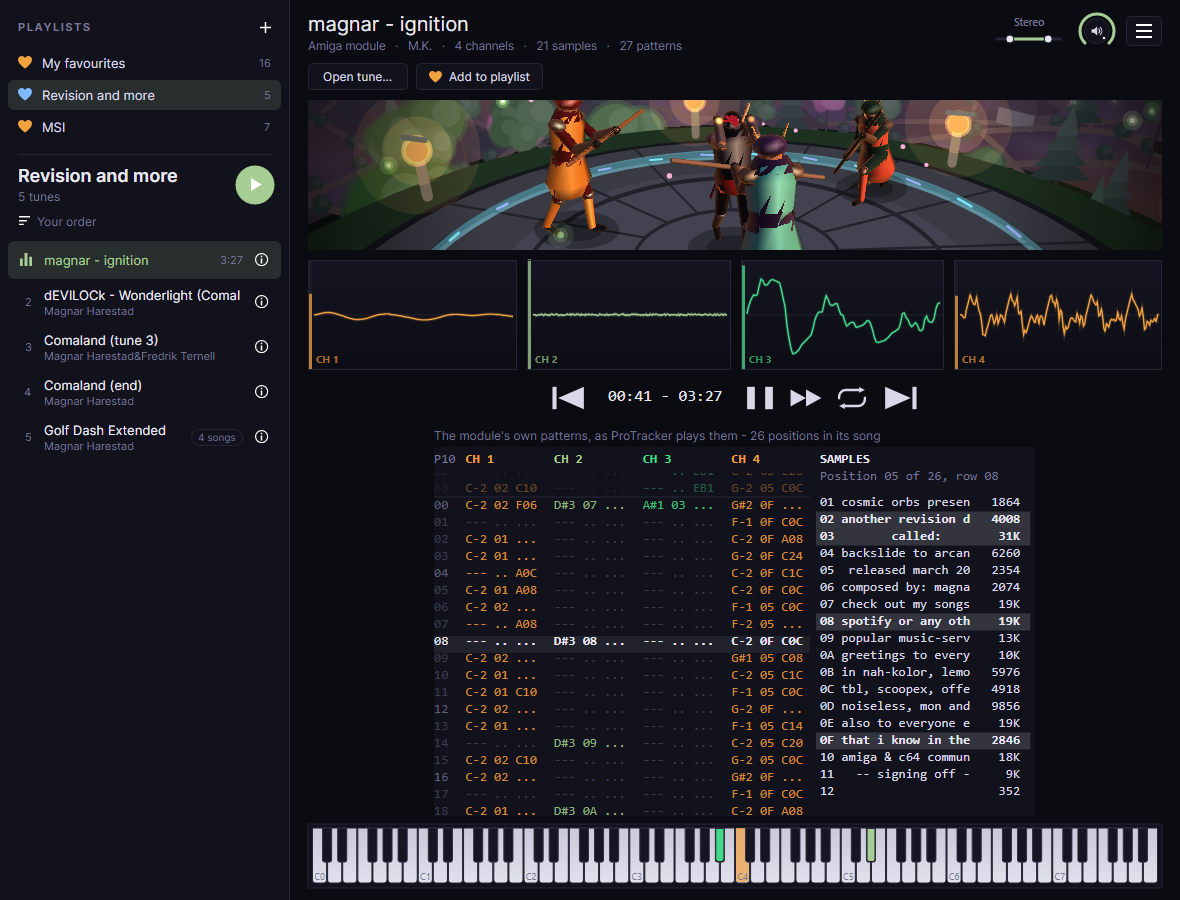
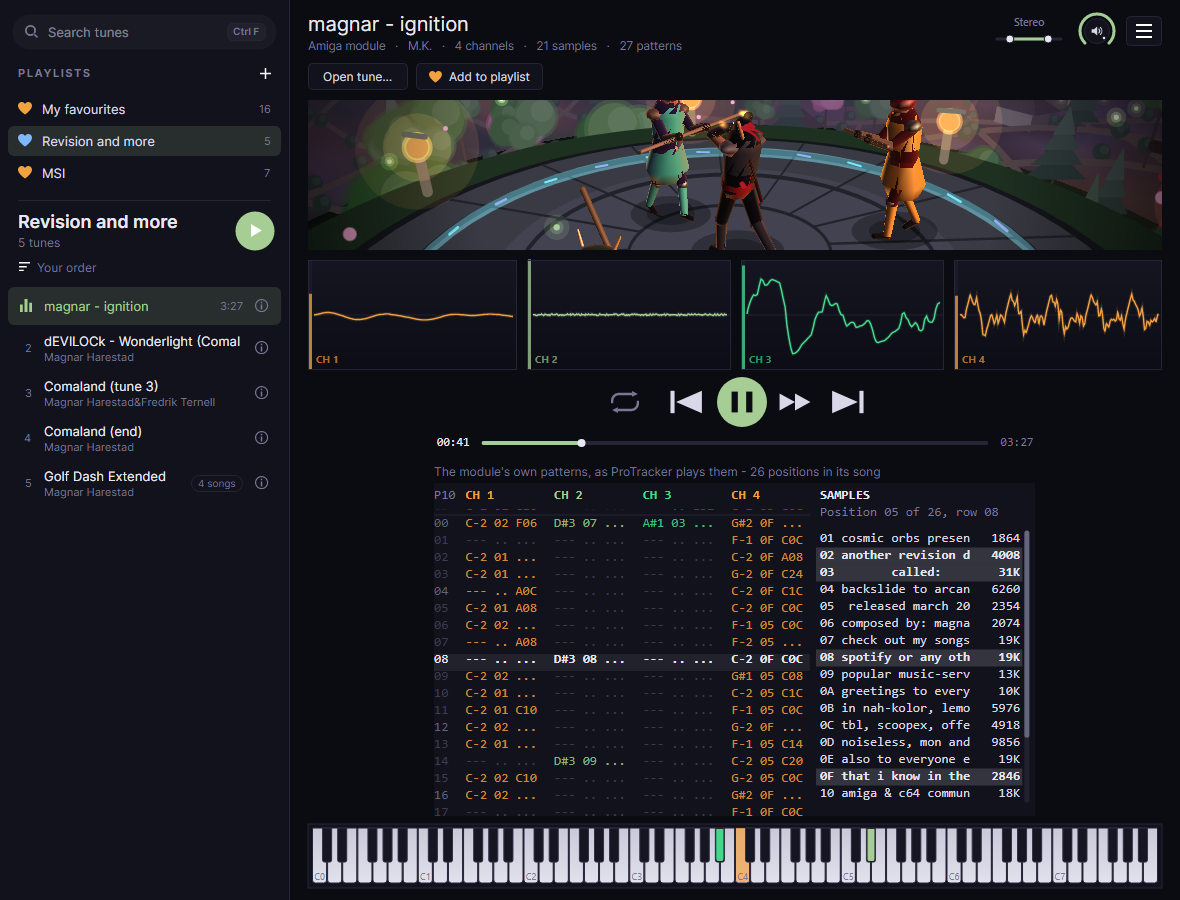
Website: the screenshots from 1.51
The four main screenshots rendered again from the app as it is now:
the search box above the playlists, the controls together and the time
bar under them. The captions say so.

diff --git a/docs/index.html b/docs/index.html
@@ -34,8 +34,8 @@
   </section>
 
   <figure class="shot">
-    <img src="screenshots/player.png?v=2" width="1180" height="900" alt="MagPlaySID playing MSI-Lost Souls from a favourites playlist: the playlist down the left with an info button on each tune, the tune's eight songs beside Add to playlist with the third playing, the sound as a wireframe landscape to fly into, a scope per voice, the tune's rows with the selected voice's instrument beside them, and a piano along the bottom">
-    <figcaption>Your favourites as a playlist down the left, an ⓘ on each tune to read about it; a tune's songs as buttons, a ring showing how far the one playing has got; the sound as a landscape to fly into - one of five meters - and a scope per voice; the tracker rows scrolling beside the instrument sounding and its wave, pulse and filter programs; and a piano lighting each voice's key.</figcaption>
+    <img src="screenshots/player.png?v=3" width="1180" height="900" alt="MagPlaySID playing MSI-Lost Souls from a favourites playlist: a search box above the playlists, the playlist down the left with an info button on each tune, the tune's eight songs beside Add to playlist with the third playing, the sound as a wireframe landscape to fly into, a scope per voice, the controls with a time bar under them, the tune's rows with the selected voice's instrument beside them, and a piano along the bottom">
+    <figcaption>Your favourites as a playlist down the left, a search over every playlist above them, an ⓘ on each tune to read about it; a tune's songs as buttons, a ring showing how far the one playing has got; the sound as a landscape to fly into - one of five meters - and a scope per voice; the controls together, a time bar under them to jump; the tracker rows scrolling beside the instrument sounding and its wave, pulse and filter programs; and a piano lighting each voice's key.</figcaption>
   </figure>
 
   <section class="highlights" aria-labelledby="highlights">
@@ -190,17 +190,17 @@
   </div>
 
   <figure class="shot">
-    <img src="screenshots/playlist.png?v=2" width="1180" height="900" alt="MagPlaySID playing Golf Dash Extended from a folder dropped on the window: the folder as a playlist below the favourites, its seven tunes listed with how many songs each has and the length of the tune played, a sort button above them, the neon meter's waves, and the tune's three songs beside Add to playlist">
+    <img src="screenshots/playlist.png?v=3" width="1180" height="900" alt="MagPlaySID playing Golf Dash Extended from a folder dropped on the window: the folder as a playlist below the favourites, its seven tunes listed with how many songs each has and the length of the tune played, a sort button above them, the neon meter's waves, and the tune's three songs beside Add to playlist">
     <figcaption>A folder dropped on the window, as a playlist of its own: its tunes in order, played one after another; the one playing lit; a badge on each tune that has several songs, and the length of each once played; a button to sort them; a round button that plays the playlist from the top; and here the neon meter's waves.</figcaption>
   </figure>
 
   <div class="shots">
     <figure class="shot">
-      <img src="screenshots/module.png" width="1180" height="900" alt="MagPlaySID playing the Amiga module magnar - ignition: its patterns as ProTracker shows them, its sample names with the composer's greetings, a scope for each of its four channels, the stereo slider beside the volume, and the Last Ninja meter">
+      <img src="screenshots/module.png?v=2" width="1180" height="900" alt="MagPlaySID playing the Amiga module magnar - ignition: its patterns as ProTracker shows them, its sample names with the composer's greetings, a scope for each of its four channels, the stereo slider beside the volume, and the Last Ninja meter">
       <figcaption>An Amiga module: its own patterns as ProTracker shows them, its sample names - here the composer's greetings - lit as they play, a scope per channel, the stereo slider beside the volume, and the Last Ninja meter.</figcaption>
     </figure>
     <figure class="shot">
-      <img src="screenshots/recording.png" width="1180" height="900" alt="MagPlaySID playing a FLAC recording: its notes heard as a piano roll rising to the line where they sound, the keys heard lit on the piano, a scope for each side, and the Dire Guys meter">
+      <img src="screenshots/recording.png?v=2" width="1180" height="900" alt="MagPlaySID playing a FLAC recording: its notes heard as a piano roll rising to the line where they sound, the keys heard lit on the piano, a scope for each side, and the Dire Guys meter">
       <figcaption>A recording: its notes heard, rising as a piano roll to the line where they sound, every key heard lit on the piano, a scope for each side, and the Dire Guys dancing on the beat.</figcaption>
     </figure>
   </div>
